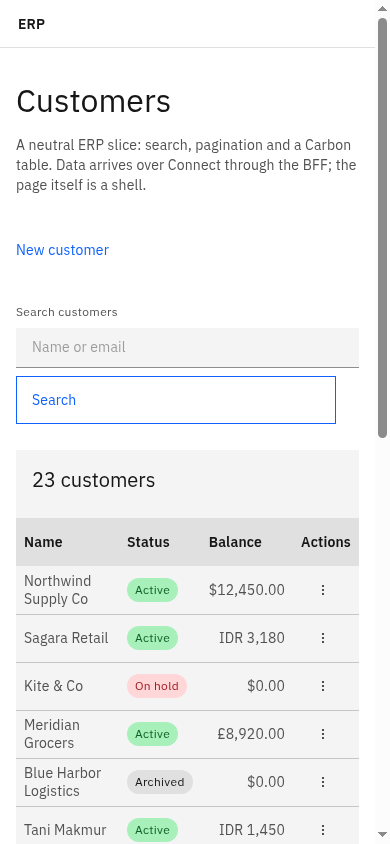
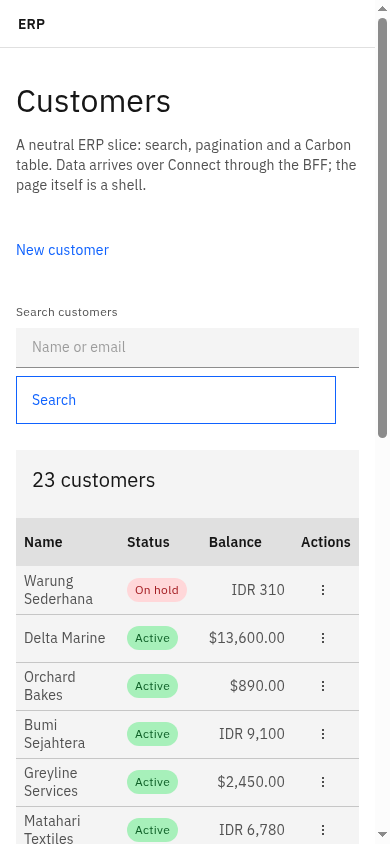
feat: consume the backend contract and match its ordering
- Add scripts/sync-contract.sh and npm run api:sync; the backend owns
  proto/, this repo pins a copy. CONTRACT_DIR overrides the sibling path.
- Regenerated from the canonical proto (go_package included, TS unchanged).
- Mock list ordering matches the backend (newest first, id tie-breaker).
- Customers and delete-modal baselines now come from the real backend, not
  the mock; 1440 and 390 refreshed.
- README/AGENTS document the sync direction and command.

Verified with next-carbon on API_URL=127.0.0.1:8080: create, edit and delete
through the UI hit the Go service and Postgres; lint, typecheck and build
pass.

diff --git a/src/gen/erp/customers/v1/customers_pb.ts b/src/gen/erp/customers/v1/customers_pb.ts
@@ -10,7 +10,7 @@ import type { Message } from "@bufbuild/protobuf";
  * Describes the file erp/customers/v1/customers.proto.
  */
 export const file_erp_customers_v1_customers: GenFile = /*@__PURE__*/
[2 lines of base64/hex data omitted]
 
 /**
  * @generated from message erp.customers.v1.Customer

diff --git a/mock/server.ts b/mock/server.ts
@@ -60,10 +60,15 @@ const handler = connectNodeAdapter({
         const pageSize =
           request.pageSize > 0 ? Math.min(request.pageSize, 100) : 20;
         const start = (page - 1) * pageSize;
+        // Match the backend: newest first, id ascending as the tie-breaker.
+        const sorted = [...matches].sort(
+          (a, b) =>
+            b.createdAt.localeCompare(a.createdAt) || a.id.localeCompare(b.id),
+        );
 
         return {
-          customers: matches.slice(start, start + pageSize),
-          total: matches.length,
+          customers: sorted.slice(start, start + pageSize),
+          total: sorted.length,
         };
       },
 

diff --git a/AGENTS.md b/AGENTS.md
@@ -27,6 +27,7 @@ behaviour needs an ADR.
 |---|---|
 | Run the app | `npm run dev` |
 | Run the mock API | `npm run mock` |
+| Sync the backend contract | `npm run api:sync` |
 | Regenerate from proto | `npm run api:generate` |
 | Lint (ESLint + stylelint) | `npm run lint` |
 | Types | `npm run typecheck` |
@@ -59,8 +60,9 @@ patterns and icons/themes/motion. `erp-domain` carries the vocabulary.
    Carbon fonts come from IBM's CDN; do not add local font files.
 6. **List state lives in the URL** — page, filters, search, page size — not in
    component state. Shareable screens are part of the ERP contract.
-7. **Never edit generated code.** `src/gen` comes from `buf generate` on the
-   protobuf contract. Change the proto, regenerate, and use the new type.
+7. **Never edit generated code.** The backend owns `proto/`; run
+   `npm run api:sync` to copy it here, then `npm run api:generate`. `src/gen`
+   is generated; change the contract on the backend side, never in place.
 
 If a task truly cannot be solved in the backend, stop and state why. The Node
 Connect transport is the one reviewed exception, for a server-rendered read

diff --git a/README.md b/README.md
@@ -43,8 +43,9 @@ client component ── Connect ──► /api/<service>/<method> ──► BFF 
 - `src/lib/connect.ts` creates the typed client against the same-origin BFF.
 - `src/app/api/[...path]/route.ts` forwards the bytes; it does not decode
   messages or know RPC names.
-- `src/gen/` is generated from `proto/` with `npm run api:generate`. Never
-  edit it.
+- `proto/` is a pinned copy of the backend contract. Run `npm run api:sync`
+  first (source defaults to `../backend-monolithrepo/proto`; override with
+  `CONTRACT_DIR`), then `npm run api:generate`. Never edit `src/gen/`.
 
 ## Boundaries
 
